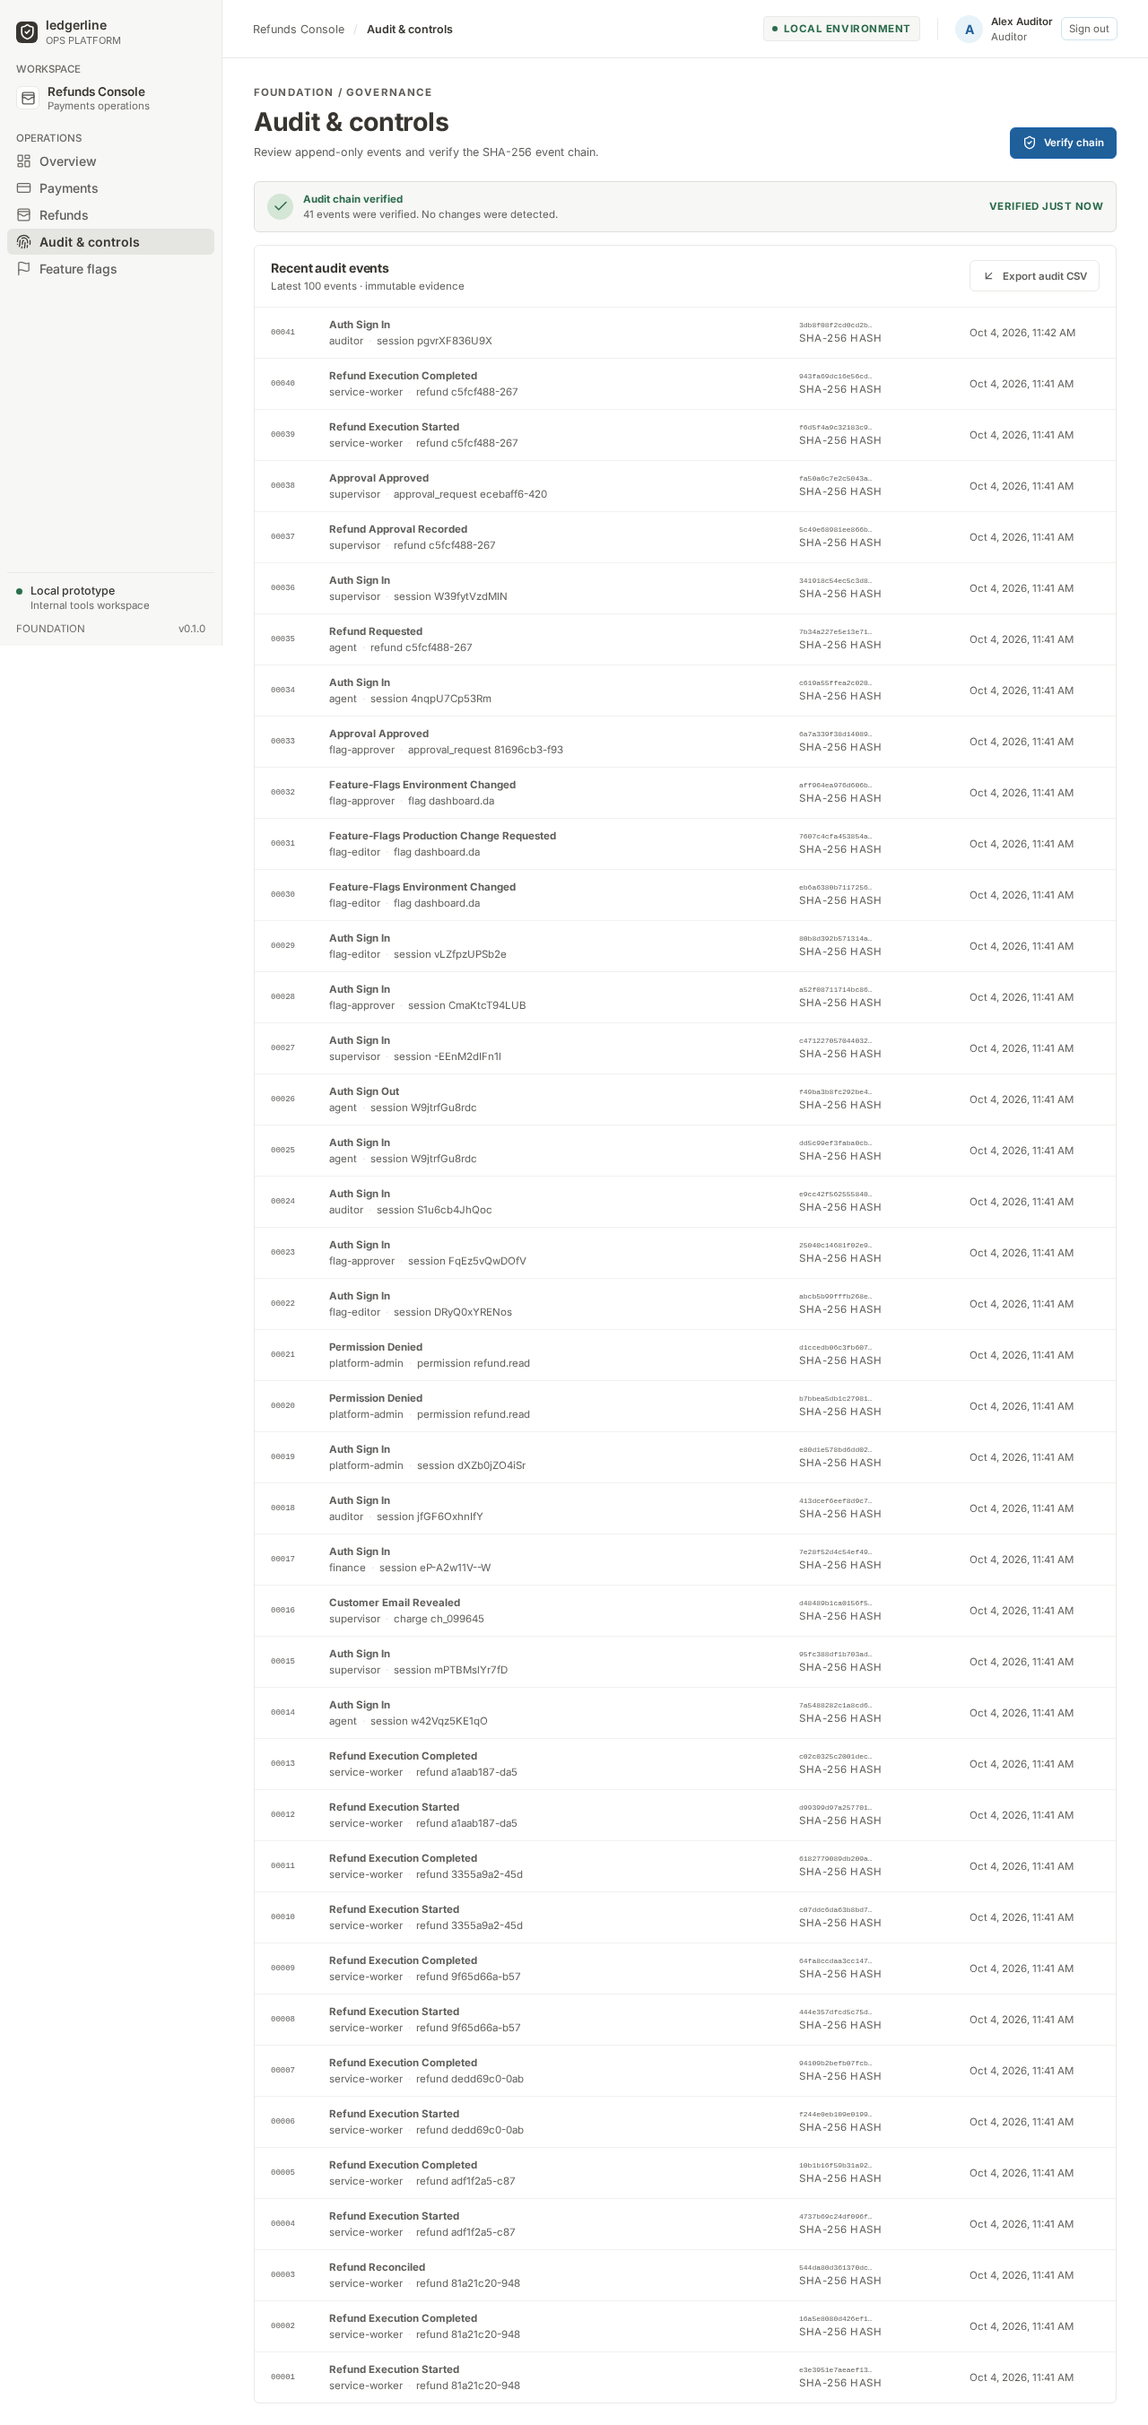
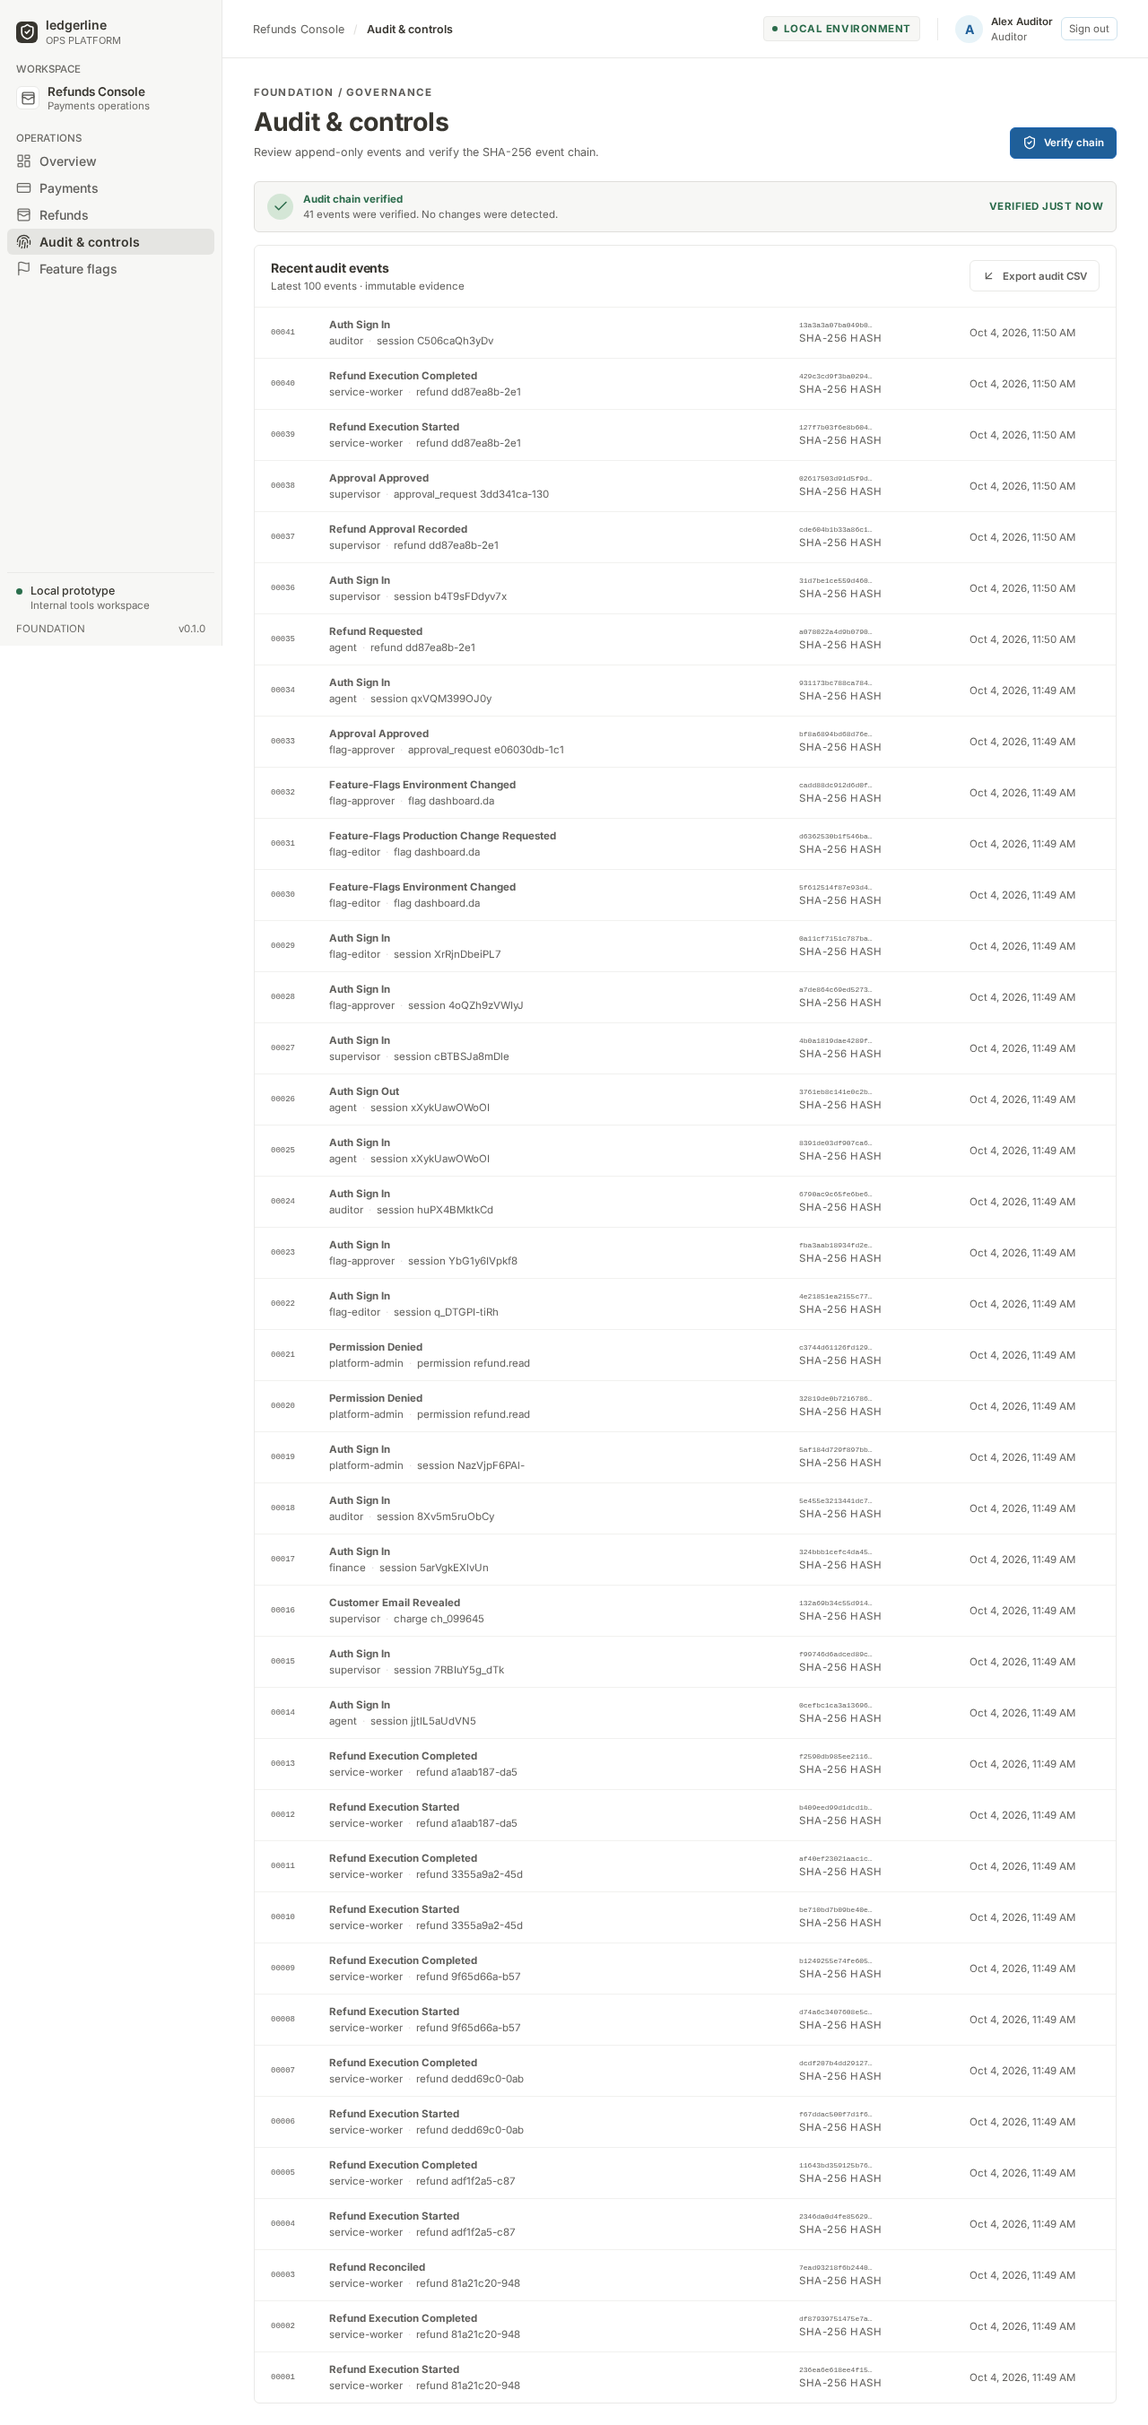
docs: apply Simplified Technical English, remove process text and clean-clone report, refresh screenshots

diff --git a/docs/SYSTEM_DESIGN.md b/docs/SYSTEM_DESIGN.md
@@ -268,7 +268,7 @@ hash(0) = SHA-256("genesis")
 1. The audit writer takes a transaction-level advisory lock, reads the last hash, computes the new hash and inserts. This serializes audit writes. Expected write volume (less than 50 for each second) permits this.
 2. A trigger refuses `UPDATE` and `DELETE`. The application database role has `INSERT` and `SELECT` only on this table. A separate owner role owns the table.
 3. `GET /api/audit/verify` recomputes the chain and returns the first broken `seq`, if any.
-4. **Production anchor (Not built).** The hash is not keyed, so a full rewrite of the chain is not detected without an external anchor. In production, the worker must export each hour the new events and the last hash to Azure Blob Storage with a locked time-based retention policy (WORM). A database administrator who rewrites the full chain cannot change the exported anchors. Microsoft states that locked WORM policies meet SEC 17a-4(f) storage requirements (Cohasset assessment).
+4. **Production anchor (Not built).** The hash is not keyed, so a full rewrite of the chain is not detected without an external anchor. In production, the worker must export the new events and the last hash each hour. The target is Azure Blob Storage with a locked time-based retention policy (WORM). A database administrator who rewrites the full chain cannot change the exported anchors. Microsoft states that locked WORM policies meet SEC 17a-4(f) storage requirements (Cohasset assessment).
 5. **SIEM (Not built).** The same export must go to the company SIEM through Azure Monitor diagnostic settings or a log forwarder.
 
 ### 8.3 What creates an audit event
@@ -400,7 +400,7 @@ interface PaymentProvider {
 }
 ```
 
-Implementations: `SimulatorProvider` (default), `StripeProvider` (test mode, enabled when `STRIPE_SECRET_KEY` is present). The simulator supports fault injection through headers or config: timeout, 500 error, duplicate webhook, out-of-order webhook, and a "ghost refund" that exists only at the provider. The tests use these faults for acceptance criteria 5 to 7.
+Implementations: `SimulatorProvider` (default), `StripeProvider` (test mode, enabled when `STRIPE_SECRET_KEY` is present). The simulator injects faults through headers or config. The faults are timeout, 500 error, duplicate webhook and out-of-order webhook. A "ghost refund" exists only at the provider. The tests use these faults for acceptance criteria 5 to 7.
 
 ---
 
@@ -417,7 +417,13 @@ Implementations: `SimulatorProvider` (default), `StripeProvider` (test mode, ena
 ## 12. Web application
 
 1. One shell: top bar with user, roles and environment badge; left navigation from the registry (only tools that the user can open).
-2. Shared components: `DataTable` (server-side filters, keyset pages), `Form` (Zod schema shared with API), `ApprovalInbox` (all tools), `AuditViewer`, `MaskedField` (reveal button calls the API and creates an audit event), `ConfirmDialog` with idempotency key.
+2. Shared components:
+   - `DataTable` uses server-side filters and keyset pages.
+   - `Form` uses a Zod schema that the API also uses.
+   - `ApprovalInbox` serves all tools.
+   - `AuditViewer` shows audit events.
+   - `MaskedField` calls the API to reveal a value. The API writes an audit event.
+   - `ConfirmDialog` sends an idempotency key.
 3. Refunds pages: search, charge detail, request form with live tier preview, inbox, refund detail with timeline, exceptions queue, dashboard.
 4. Accessibility: semantic HTML, keyboard navigation, axe checks in Playwright.
 
@@ -561,9 +567,9 @@ infra/terraform/
 
 | Activity | How Devin does it | Human role |
 |---|---|---|
-| Build a new tool | Playbook "Add an internal tool" in `.devin/`. A request from Slack or Linear starts a session. Devin runs `scripts/new-tool.ts`, writes the domain code and tests, and opens a PR. | Tool owner writes the request. An engineer reviews and merges. |
+| Build a new tool | Playbook "Add an internal tool" in `.devin/`. A request from Slack or Linear starts the work. Devin runs `scripts/new-tool.ts`, writes the domain code and tests, and opens a PR. | Tool owner writes the request. An engineer reviews and merges. |
 | Change a policy | Devin changes configuration and tests, and opens a PR. | Finance approves the change. Engineer reviews. |
-| CI failure | A Devin Automation on CI failure opens a session that diagnoses and pushes a fix PR. | Engineer reviews. |
+| CI failure | A Devin Automation on CI failure diagnoses the failure and opens a fix PR. | Engineer reviews. |
 | Dependency and security updates | Dependabot opens PRs. Devin fixes breaking changes. | Engineer reviews. |
 | Incident triage | A Devin Automation on an alert reads logs and traces and proposes a fix or a runbook action. | On-call engineer decides. |
 

diff --git a/README.md b/README.md
@@ -39,7 +39,7 @@ flowchart LR
 
 ### User interface
 
-The console uses a Notion-style design:
+The console uses a simple, document-style design:
 
 - The font is Inter (`@fontsource-variable/inter`).
 - The colors are warm neutrals, for example `--ink: #37352f` and `--sidebar: #f7f7f5`. The design tokens are in `apps/web/src/style.css`.
@@ -399,7 +399,6 @@ These commands use `postgres://tools:local-development-only@localhost:5432/inter
 | `docs/PRD.md`, `docs/SYSTEM_DESIGN.md`              | Product and design specifications                                                                    |
 | `docs/adr`, `docs/runbooks`, `docs/threat-model.md` | Decisions, operator guides, and the threat model                                                     |
 | `docs/images`                                       | Screenshots from the end-to-end suite                                                                |
-| `docs/clean-clone-report.md`                        | Step log of a clean-machine review of this README                                                    |
 | `.devin`                                            | Tool development playbook and repository knowledge                                                   |
 | `.github/workflows`                                 | CI: lint, typecheck, tests, end-to-end, dependency rules, security scans, Terraform checks           |
 
@@ -497,8 +496,17 @@ Known limits:
 | Playwright cannot start Chromium on Linux                                         | System libraries are missing.                                      | Run `npx playwright install --with-deps chromium`.                                                                                               |
 | A command fails with a Node.js syntax or engine error                             | The Node.js version is not 22.                                     | Run `nvm use 22`.                                                                                                                                |
 | A refund demo shows a different status than the README                            | The demos changed data. Each demo expects a new stack.             | Run `docker compose down -v`, then `docker compose up -d --build --wait`. Run the demos in order.                                                |
+| `platform-admin` sees no **Refunds** page                                         | This role can open only **Overview** and **Audit & controls**.     | Use `supervisor` to see refund status.                                                                                                           |
+| **Reveal** does not show the email                                                | The API needs a reason of at least 10 characters.                  | Type a reason, then click **Reveal email**.                                                                                                      |
 | You want a clean start                                                            | Old data is in the Docker volumes.                                 | Run `docker compose down -v`, then `docker compose up -d --build --wait`.                                                                        |
 
 ## Security and production limits
 
-Use only synthetic records in this prototype. Do not add production data or credentials. The local passwords and `.env.example` values are not production secrets. Before production use, the team must review the threat model, configure a production identity provider, set up secret storage, deploy a managed database, test recovery, and complete the deployment work.
+Use only synthetic records in this prototype. Do not add production data or credentials. The local passwords and `.env.example` values are not production secrets. Before production use, the team must do these tasks:
+
+- Review the threat model.
+- Configure a production identity provider.
+- Set up secret storage.
+- Deploy a managed database.
+- Test recovery.
+- Complete the deployment work.

diff --git a/docs/security-review.md b/docs/security-review.md
@@ -1,6 +1,6 @@
 # Security review: Foundation and Refunds Console
 
-- Base: `devin/1791105966-foundation-refunds` (review started at `a342626`; branch updated to `9953df0`).
+- Scope: Foundation and Refunds Console.
 - Date: 2026-10-04.
 - Method: source review, attacks on the local Docker Compose stack, and Vitest tests on the real Postgres.
 - Users: the six local Keycloak users. Data: synthetic seed data only.
@@ -12,7 +12,8 @@
 - SR-01 (High) is open. One unauthenticated request stops the API process. The fix is in `apps/api/src/server.ts`. The shared rules lock that file. The exact patch is in this document.
 - SR-02 (High) is fixed in this PR. An Agent could split a large refund to avoid the Supervisor-only rule and dual approval.
 - Seven findings are in `packages/foundation/**`. SR-04 is now fixed on the base. This PR does not change Foundation code. Each open Foundation finding has an exact proposed patch.
-- The main controls work: CSRF, self-approval denial (also for `agent-supervisor`), approval step order, webhook HMAC and replay window, idempotency binding, SQL parameters, mass-assignment protection, masking, log redaction, and audit immutability for `app_runtime`.
+- The main controls work. They include CSRF, self-approval denial (also for `agent-supervisor`), approval step order, and webhook HMAC with a replay window.
+- Idempotency binding, SQL parameters, mass-assignment protection, masking, log redaction, and audit immutability for `app_runtime` also work.
 
 ## How to run the tests
 
@@ -22,7 +23,7 @@ npm test
 ```
 
 - `apps/api/test/permission-matrix.test.ts`: calls every registered route and every core route as 7 personas and as an anonymous caller. A new route that is not in the matrix makes the test fail.
-- `apps/api/test/security-controls.test.ts`: route permission declaration, self-approval and audit, approval steps, split refunds, mass assignment, idempotency, CSRF, webhook signature and replay, SQL input, masking, and `app_runtime` privileges.
+- `apps/api/test/security-controls.test.ts` tests route permissions, self-approval and audit, approval steps, split refunds, and mass assignment. It also tests idempotency, CSRF, webhook signature and replay, SQL input, masking, and `app_runtime` privileges.
 - The tests build the API in-process with `buildServer()`. The API connects as `app_runtime`. Fixture setup and cleanup use the owner role.
 - CI sets `RUNTIME_DB_PASSWORD` so that `npm run db:migrate` creates `app_runtime` for these tests.
 
@@ -403,7 +404,7 @@ GET /api/charges?q=nobody-zz@example.test -> 200 {"items":[],"nextCursor":null}
 ### SR-11 (Medium): `app_runtime` can rewrite approval records
 
 - Cause: `apps/api/src/migrate.ts` lines 64-77 grant `SELECT, INSERT, UPDATE, DELETE` on all tables in the application schemas. Only `foundation.audit_events` loses `UPDATE` and `DELETE`.
-- Verified: `app_runtime` cannot update, delete, or truncate audit events, cannot disable the trigger, cannot create tables in `public`, and has no superuser, `CREATEROLE`, `CREATEDB`, or `BYPASSRLS`. Tests cover this.
+- Verified: `app_runtime` cannot update, delete, or truncate audit events. It cannot disable the trigger or create tables in `public`. It has no superuser, `CREATEROLE`, `CREATEDB`, or `BYPASSRLS`. Tests cover this.
 - Gap: `app_runtime` can `UPDATE` or `DELETE` rows in `foundation.approvals`, `foundation.approval_requests`, `foundation.policy_versions`, and `foundation.tool_settings`. It can also `INSERT` audit events with a valid hash chain, because the chain has no key. A SQL injection bug or a stolen runtime password can therefore forge an approval and its audit trail.
 - Proposed patch (append after the existing `REVOKE`):
 

diff --git a/docs/PRD.md b/docs/PRD.md
@@ -23,7 +23,7 @@ This product is a shared Foundation that supplies these controls one time, for a
 Two reference tools prove the Foundation:
 
 1. **Refunds Console** (deep). It is the highest-risk tool of the 3 current tools. It uses every Foundation capability at production quality.
-2. **Feature-Flag Panel** (small). A separate Devin session builds it on the Foundation. It proves that a new tool is fast to add and gets all controls with no extra work.
+2. **Feature-Flag Panel** (small). It is built on the Foundation. It proves that a new tool is fast to add and gets all controls with no extra work.
 
 ---
 
@@ -264,7 +264,7 @@ The priority uses MoSCoW: **M** = must, **S** = should, **C** = could.
 | FR-OB-3 | The Foundation must emit default metrics for each tool: request rate, errors, latency, pending approvals, outbox depth, failed executions, open exceptions. | M |
 | FR-OB-4 | The Foundation must supply default alerts and a runbook template. Each tool must add a runbook for each alert. | M |
 | FR-OB-5 | The Foundation must supply liveness and readiness health checks. | M |
-| FR-OB-6 | Devin Automations should open a session on CI failure and on selected alerts. | S |
+| FR-OB-6 | Devin Automations should start work on CI failures and on selected alerts. | S |
 
 ---
 
@@ -351,7 +351,7 @@ This tool is small on purpose. It proves G-1 and G-2.
 | FR-FF-5 | Services must read flags through a read-only API with a service token. | S |
 | FR-FF-6 | The tool must contain no authentication, authorization, audit, approval or logging code of its own. It must use the Foundation. | M |
 
-**Example of a future tool: KYC review queue.** No KYC tool exists in the prototype. A KYC queue could use the same Foundation: data classes and masking for documents and personal data, the approval engine for escalations, keyset search over the full queue, and the audit log for each document view.
+**Example of a future tool: KYC review queue.** No KYC tool exists in the prototype. A KYC queue could use the same Foundation. Data classes and masking protect documents and personal data. The approval engine handles escalations. Keyset search covers the full queue. The audit log records each document view.
 
 ---
 
@@ -493,7 +493,7 @@ Layer key: **F** = Foundation (all tools get it). **T** = tool-specific.
 8. **Tamper evidence.** Given a database administrator changes an audit row directly, with triggers disabled. When an Auditor runs verify, then verify reports the first broken event ID.
 9. **Kill switch.** Given a Platform Admin pauses refunds execution. Then approved refunds stay `approved` until resume. A banner and the metric `execution_paused` show the pause.
 10. **Route without permission.** Given a developer adds a route with no permission. Then the API does not start and the tests fail.
-11. **New tool inherits controls.** Given a separate Devin session builds the Feature-Flag Panel from the playbook. Then the PR adds only tool files (registry entry, routes, migration, pages, tests). The production flag change needs approval, writes audit events, with no new auth, audit, approval or logging code.
+11. **New tool inherits controls.** Given an engineer builds the Feature-Flag Panel from the playbook. Then the PR adds only tool files (registry entry, routes, migration, pages, tests). The production flag change needs approval, writes audit events, with no new auth, audit, approval or logging code.
 
 ---
 

diff --git a/docs/runbooks/outbox-failures.md b/docs/runbooks/outbox-failures.md
@@ -3,6 +3,6 @@
 1. Query `foundation.outbox` for rows with `status='failed'` and inspect worker logs.
 2. Confirm whether the provider completed the refund. If the state is unknown, keep execution paused and contact the provider.
 3. If the provider completed the refund, queue reconciliation. It updates the still-reserved refund and closes its outbox item.
-4. If the provider confirms there is no refund, and the internal refund remains `executing`, an authorized operator may reset that outbox row to `pending`, set `attempts=0`, clear its lease and error, and set `next_attempt_at=now()`.
+4. Do this step only if the provider confirms that no refund exists and the internal refund is still `executing`. An authorized operator resets the outbox row: set `status` to `pending`, set `attempts=0`, clear the lease and the error, and set `next_attempt_at=now()`.
 5. Retry the same outbox row. It keeps the refund ID as the provider idempotency key. Do not create a second record while provider state is unknown.
 6. A refund already in `failed` state is terminal. Start a new request only after verifying that the provider did not process the earlier request.
